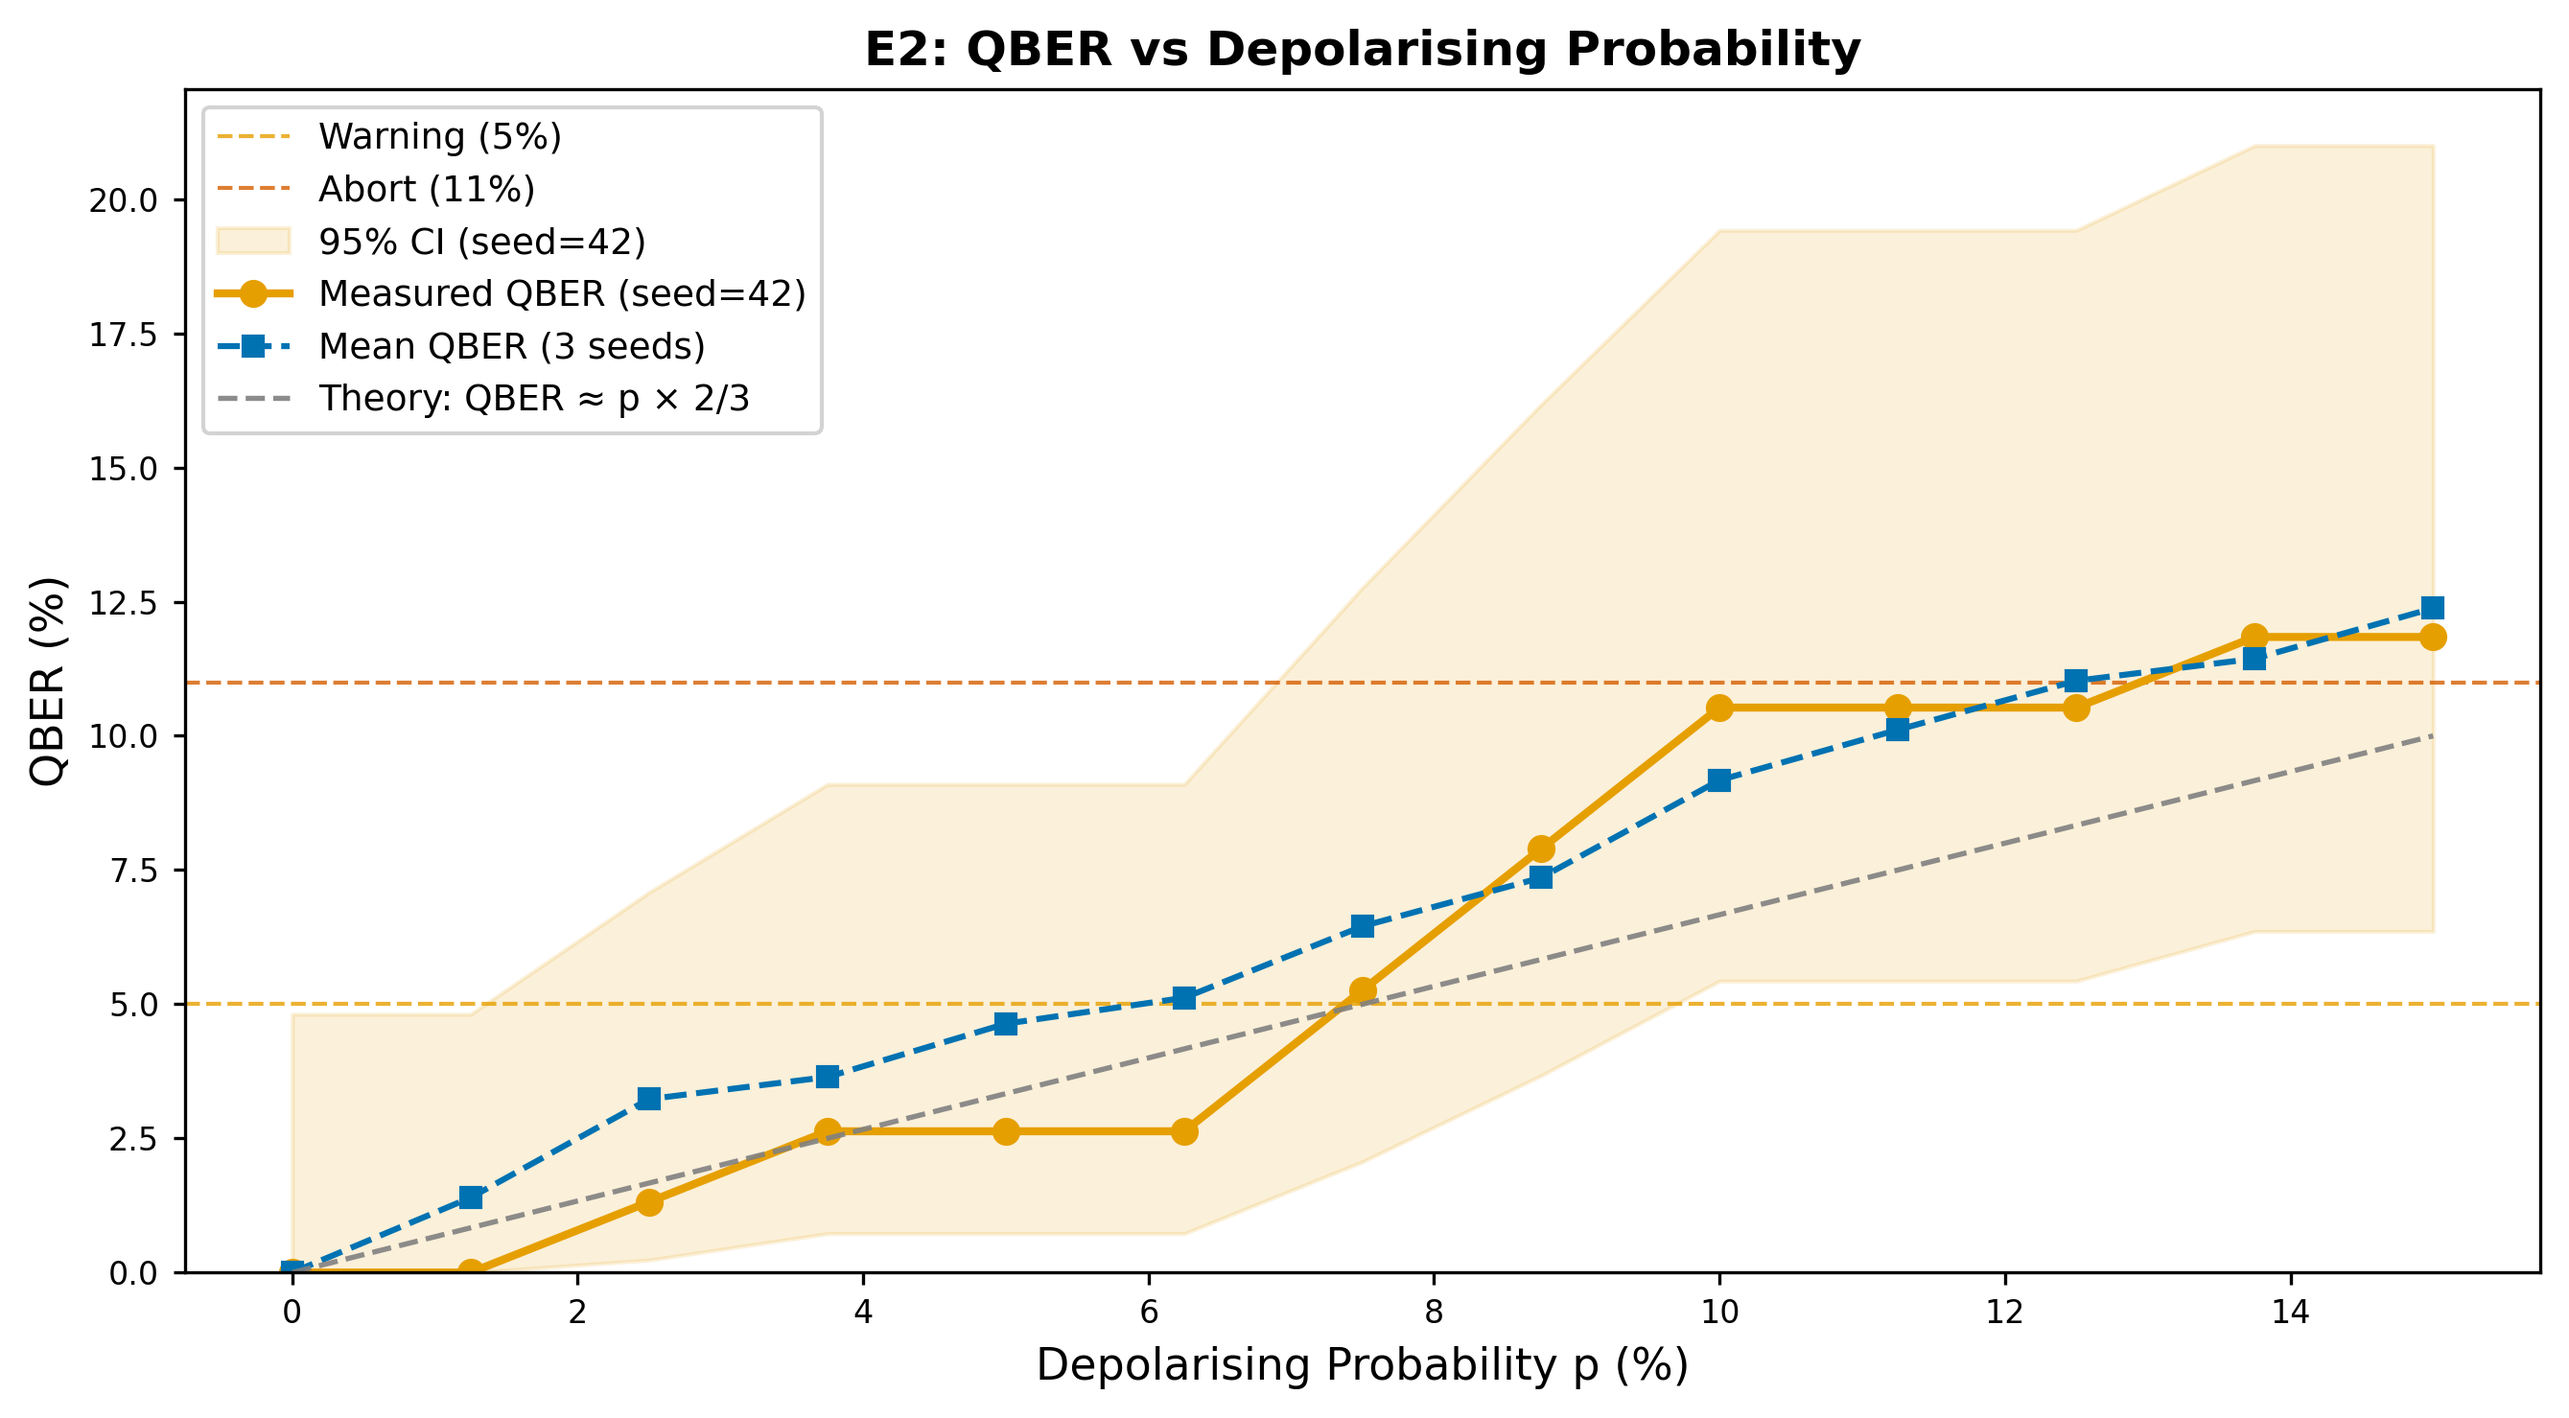
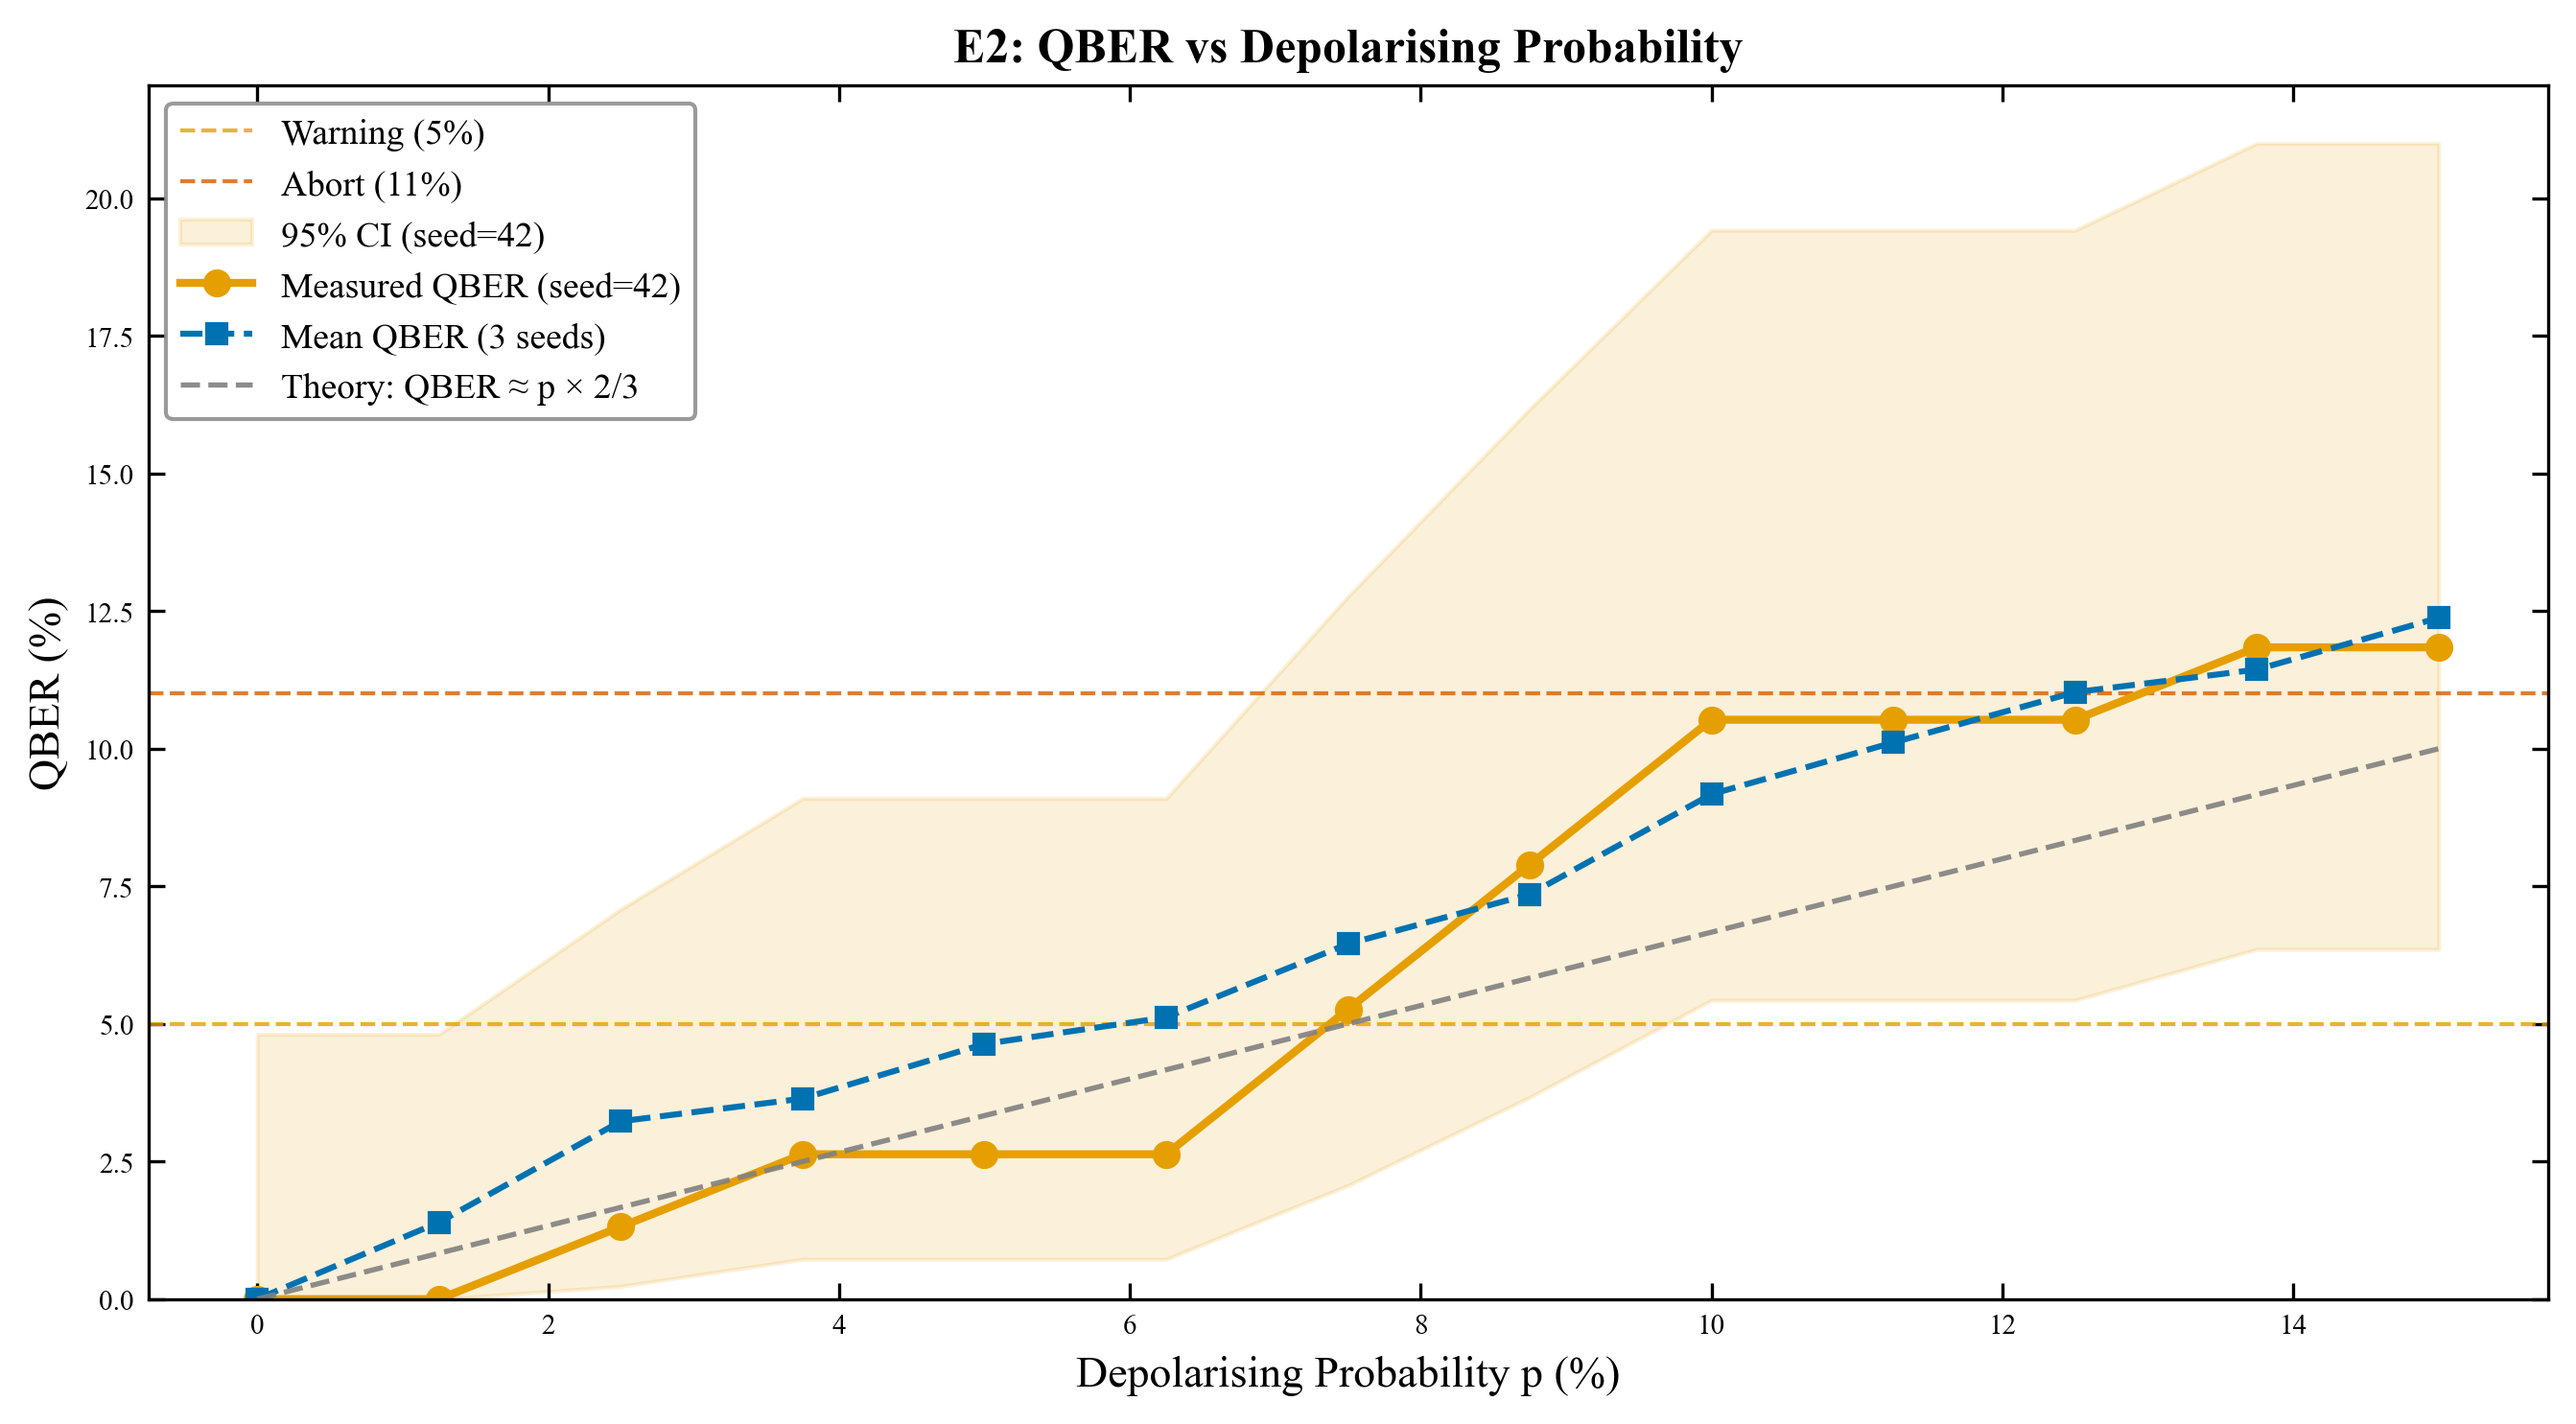
app error toggle bug updated

diff --git a/bb84_config.py b/bb84_config.py
@@ -106,19 +106,25 @@ class SimulationConfig:
 
     def __post_init__(self) -> None:
         """
-        Validate the Bloch-sphere physical constraint T2 <= 2*T1.
+        Enforce the Bloch-sphere physical constraint T2 <= 2*T1.
 
-        This is checked at configuration-creation time so an invalid
-        (t1_ns, t2_ns) pair fails immediately and explicitly, rather
-        than being silently clamped later inside QuantumChannel.
+        Auto-clamped rather than raised: T1/T2 are frequently set (or
+        derived/scaled, e.g. by bb84_zne.build_scaled_config) somewhat
+        independently, and for noise models that only use one of the
+        two (amplitude_damping uses T1 only, phase_damping uses T2
+        only) the "other" value is often just a leftover default. A
+        hard crash there is a footgun, not a useful guardrail. We still
+        surface the adjustment via a console warning so it's visible
+        during development instead of silently changing behaviour.
         """
-        if self.t2_ns > 2 * self.t1_ns:
-            raise ValueError(
-                f"Invalid config: T2 ({self.t2_ns} ns) exceeds 2*T1 "
-                f"({2 * self.t1_ns} ns). This violates the physical "
-                f"Bloch-sphere bound T2 <= 2*T1 for any real qubit. "
-                f"Reduce t2_ns or increase t1_ns."
+        max_t2 = 2 * self.t1_ns - 1e-6
+        if self.t2_ns > max_t2:
+            print(
+                f"[bb84_config] WARNING: T2 ({self.t2_ns} ns) exceeded "
+                f"2*T1 ({2 * self.t1_ns} ns); clamped T2 to {max_t2:.3f} ns "
+                f"to satisfy the Bloch-sphere bound T2 <= 2*T1."
             )
+            self.t2_ns = max_t2
 
 
 # ──────────────────────────────────────────────────────────────────────

diff --git a/bb84_zne.py b/bb84_zne.py
@@ -216,12 +216,20 @@ def build_scaled_config(
     elif base_noise_model == NoiseModelType.AMPLITUDE_DAMPING:
         kwargs["noise_model"]  = NoiseModelType.AMPLITUDE_DAMPING
         kwargs["t1_ns"]        = scale_amplitude_damping(base_t1_ns, gate_time_ns, f_scale)
+        # T2 is unused by amplitude damping's Kraus operators (same
+        # convention qkd_app.py already uses) - pin it equal to T1 so
+        # the T2 <= 2*T1 Bloch-sphere check in SimulationConfig can
+        # never fail here, no matter how far f_scale pushes T1 down.
+        kwargs["t2_ns"]        = kwargs["t1_ns"]
         kwargs["gate_time_ns"] = gate_time_ns
 
     elif base_noise_model == NoiseModelType.PHASE_DAMPING:
         kwargs["noise_model"]  = NoiseModelType.PHASE_DAMPING
-        kwargs["t1_ns"]        = 10_000.0
         kwargs["t2_ns"]        = scale_phase_damping(base_t2_ns, gate_time_ns, f_scale)
+        # T1 is unused by phase damping's Kraus operators - pin it equal
+        # to T2 (same reasoning as above) instead of the old hardcoded
+        # 10_000, which broke as soon as scaled T2 exceeded 20_000 ns.
+        kwargs["t1_ns"]        = kwargs["t2_ns"]
         kwargs["gate_time_ns"] = gate_time_ns
 
     else:
